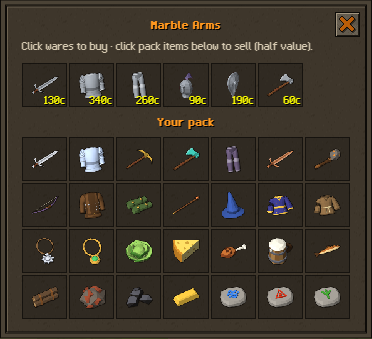
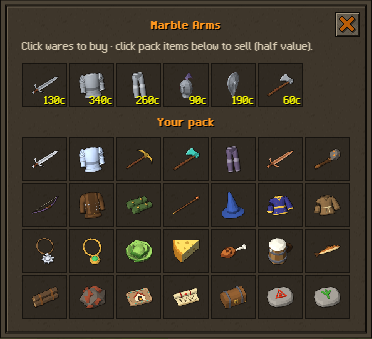
Load-time items get Blender renders: the Hearthmere teleport tablet, the cipher scroll and the Wayfarer's casket
home_tab was still drawn on a canvas by src/item_teleport_tabs.js (a purple slab and a house glyph pre-seeded into the
icon cache, so iconFor never reached a render), and src/clues.js's cipher_scroll and wayfarer_casket had no picture at
all (iconFor's default grey square). All three are added at load, so the item-table tests never saw them.

- tools/blender/build_world_item_icons_v1.py: a parametric teleport tablet (a thick fired-clay slab, bevelled, a raised
  rim with glowing rune notches around a sunken field) takes one emblem per destination from TAB_EMBLEM; Hearthmere's
  is a gabled cottage with a fire in its open door and a chimney. home_tab is the only tablet today; a new one adds its
  emblem there. Plus a parchment cipher scroll (ribbon, wax seal, rows of cipher on the unrolled end) and the Wayfarer's
  casket (oak chest, iron bands, brass lock plate). Same camera, light and finish as every item icon.
- src/game0_icons.js: the three ids join HOLM_ITEM_ICONS. src/item_teleport_tabs.js: the canvas drawing is removed
  (it would have won over the render); the tablet's use is unchanged (checked: breaking one consumes it and teleports).
- tools/test_item_icons.js: finds every script index.html loads that writes into ITEMS (the bronze dagger, the bread
  chain, the teleport tablet, the clue items), runs each in the sandbox with stand-ins for the globals it waits for, and
[…]

Changed region(s): [[0.5914, 0.826, 0.6801, 0.9145], [0.3253, 0.826, 0.414, 0.9145], [0.4435, 0.826, 0.5323, 0.9145]]

diff --git a/tools/test_item_icons.js b/tools/test_item_icons.js
@@ -3,12 +3,15 @@
    Crafted Realm -- every item has a real picture (owner rule: every icon is an image or a Blender render; no drawn
    placeholder shapes, no emoji, no glyphs).
 
-   Loads src/game0_icons.js and the item tables the way the browser does (src/game1_data.js ITEMS + buildTieredGear's
-   generated tier gear, src/smith_bronze_dagger.js) and checks:
+   Loads src/game0_icons.js and the item tables the way the browser does: src/game1_data.js ITEMS (+ buildTieredGear's
+   generated tier gear), then EVERY script index.html loads that adds items at load (found by scanning the script list
+   for writes into ITEMS: the bronze dagger, the bread chain, the teleport tablet, the clue items...), each run in the
+   sandbox with stand-ins for the game globals it waits for, so its registration really happens. Then it checks:
      1. every item id resolves through iconFor's picture tables (HOLM_ITEM_ICONS -> assets/icons/items/<id>.png, then the
-        painted gear-sprite rule -> assets/icons/gear/<id>.png), never to the canvas fallback;
+        painted gear-sprite rule -> assets/icons/gear/<id>.png), never to the canvas fallback, the load-time items too;
      2. every file those tables point at exists, and every Blender item render is a 96 x 96 PNG with transparency;
-     3. every id in HOLM_ITEM_ICONS is a real item (a typo would silently fall back to a drawn icon).
+     3. every id in HOLM_ITEM_ICONS is a real item (a typo would silently fall back to a drawn icon);
+     4. no script seeds the icon cache (ICONS[id] = a canvas drawing) for an item unless it yields to the item's render.
    Renders: tools/blender/build_holm_items_v1.py, build_holm_equipment_v1..v4.py, build_holm_fishing_items_v1.py,
    build_world_item_icons_v1.py. Run: node tools/test_item_icons.js    Exit 0 = pass.
    ========================================================================== */
@@ -19,22 +22,39 @@ const read=f=>fs.readFileSync(path.join(ROOT,f),'utf8');
 let pass=0,fail=0;
 function ok(c,m,d){if(c)pass++;else{fail++;console.log('  FAIL '+m+(d!==undefined?'\n       '+JSON.stringify(d).slice(0,800):''))}}
 
-const sb={Math,console:{log(){},warn(){},error(){}},JSON,Set,Map,Array,Object,WORLD:{},setInterval:()=>0,clearInterval:()=>{}};
-sb.globalThis=sb;vm.createContext(sb);
+/* a do-nothing stand-in for any game global a load-time module waits for (UI, Player, Admin, Events, Persist, ...):
+   every property is another stand-in, every call returns undefined, assignments land on the target */
+const stub=()=>{const t=function(){};return new Proxy(t,{get:(o,k)=>k in o?o[k]:(k===Symbol.toPrimitive||k==='then'?undefined:(o[k]=stub())),apply:()=>undefined})};
+const sb={Math,console:{log(){},warn(){},error(){},info(){}},JSON,Set,Map,Array,Object,Date,WORLD:{},
+  setInterval:f=>{try{f()}catch(e){}return 0},clearInterval:()=>{},setTimeout:()=>0};   // a boot interval gets one try, now
+sb.globalThis=sb;sb.window=sb;vm.createContext(sb);
 const ev=(f,cap)=>vm.runInContext(read(f)+'\n;'+(cap||''),sb,{filename:f});
 ev('src/game0_icons.js','globalThis.__I={HOLM_ITEM_ICONS,_gearSprite};');
 ev('src/game1_data.js','globalThis.__D={ITEMS};');
-ev('src/magic_spells.js');ev('src/combat_math.js');ev('src/game3_systems.js');   // what smith_bronze_dagger.js hooks into
-ev('src/smith_bronze_dagger.js');                                                   // adds the bronze dagger at load
+ev('src/magic_spells.js');ev('src/combat_math.js');ev('src/game3_systems.js');   // the tables the load-time modules hook into
 const {HOLM_ITEM_ICONS,_gearSprite}=sb.__I,ITEMS=sb.__D.ITEMS;
+const literal=new Set(Object.keys(ITEMS));
+
+/* every script index.html loads, in order; the ones that write into ITEMS add items at load */
+const scripts=[...read('index.html').matchAll(/<script[^>]*\ssrc="(src\/[^"?]+\.js)/g)].map(m=>m[1]);
+const WRITES=/ITEMS\s*\[[^\]]+\]\s*=(?!=)|ITEMS\.\w+\s*=(?!=)/;
+const loaders=scripts.filter(f=>f!=='src/game1_data.js'&&fs.existsSync(path.join(ROOT,f))&&WRITES.test(read(f)));
+['UI','Player','Admin','Events','Persist','Interact','Sfx','BreadRecipe','scene','THREE','handleClick','orderWalk','groundY','player']
+  .forEach(k=>{if(!(k in sb))sb[k]=stub()});
+const loadErr=[];
+loaders.forEach(f=>{try{ev(f)}catch(e){loadErr.push(f+': '+String(e&&e.message||e))}});
+const atLoad=Object.keys(ITEMS).filter(id=>!literal.has(id));
 const picture=id=>HOLM_ITEM_ICONS.has(id)?'assets/icons/items/'+id+'.png':_gearSprite(id)?'assets/icons/gear/'+id+'.png':null;
 /* width, height and colour type of a PNG from its IHDR */
 function pngInfo(p){const b=fs.readFileSync(p);if(b.readUInt32BE(0)!==0x89504e47)return null;return {w:b.readUInt32BE(16),h:b.readUInt32BE(20),ct:b[25]}}
 
 console.log('1. every item resolves to a picture');
+ok(!loadErr.length,'every load-time item module ran in the sandbox ('+loaders.join(', ')+')',loadErr);
+ok(['home_tab','bronze_dagger','dough','cipher_scroll'].every(id=>atLoad.indexOf(id)>=0),
+   'the items added at load are in the table ('+atLoad.length+': '+atLoad.join(', ')+')',atLoad);
 const ids=Object.keys(ITEMS);
+ok(ids.length>250,'the item table loaded ('+ids.length+' items: tier gear and load-time items included)');
 const none=ids.filter(id=>!picture(id));
-ok(ids.length>250&&!!ITEMS.bronze_dagger,'the item table loaded ('+ids.length+' items: tier gear and the bronze dagger included)');
 ok(!none.length,'every item has a Blender render or a painted sprite (no canvas-drawn fallback)',none);
 
 console.log('2. the pictures exist');
@@ -45,8 +65,15 @@ const badSize=[...HOLM_ITEM_ICONS].filter(id=>{const p=path.join(ROOT,'assets/ic
 ok(!badSize.length,'every Blender item render is a 96 x 96 RGBA PNG ('+HOLM_ITEM_ICONS.size+' renders)',badSize);
 
 console.log('3. the render table names real items');
-const stray=[...HOLM_ITEM_ICONS].filter(id=>!ITEMS[id]&&!['dough','bucket_flour'].includes(id));   // cooking_bread.js adds these two at load
+const stray=[...HOLM_ITEM_ICONS].filter(id=>!ITEMS[id]);
 ok(!stray.length,'every HOLM_ITEM_ICONS id is an item',stray);
+
+console.log('4. nothing seeds a drawn icon over a render');
+/* iconFor returns a cached ICONS[id] before it looks for the render, so a module that pre-draws an item's icon must step
+   aside when the render exists (smith_bronze_dagger.js checks HOLM_ITEM_ICONS first) */
+const seeders=scripts.filter(f=>f!=='src/game0_icons.js'&&fs.existsSync(path.join(ROOT,f))&&/ICONS\s*\[[^\]]+\]\s*=(?!=)/.test(read(f)));
+const unguarded=seeders.filter(f=>!/HOLM_ITEM_ICONS\.has\(/.test(read(f)));
+ok(!unguarded.length,'every script that caches an item icon yields to the Blender render ('+(seeders.join(', ')||'none')+')',unguarded);
 
 console.log('\n[ITEM ICONS] '+pass+' passed, '+fail+' failed');
 process.exit(fail?1:0);

diff --git a/src/item_teleport_tabs.js b/src/item_teleport_tabs.js
@@ -5,10 +5,12 @@
  * tutorial finish uses (Admin.tp('commons')). It wraps UI.useItem and calls through
  * to the original for every other item, so no existing use-path is touched.
  *
- * The 2D inventory icon is injected by pre-seeding ICONS['home_tab'] with a drawn
- * data-URL; game0_icons.js's iconFor() returns any pre-cached icon early, so we get
- * a proper sprite without editing that file. Mutates globals at load only; edits no
- * other source file. Self-boots via a setInterval guard. Reversible: drop the tag.
+ * The inventory icon is a Blender render (a clay tablet with Hearthmere's cottage-and-fire
+ * emblem: tools/blender/build_world_item_icons_v1.py -> assets/icons/items/home_tab.png),
+ * listed in game0_icons.js HOLM_ITEM_ICONS like every other item. (It used to pre-seed
+ * ICONS['home_tab'] with a canvas drawing; the owner rule is images or Blender renders
+ * only, so nothing is drawn here any more.) Mutates globals at load only. Self-boots
+ * via a setInterval guard. Reversible: drop the tag.
  */
 (function(){
   const ID   = 'home_tab';
@@ -20,29 +22,6 @@
   // Save restoration may run before the delayed interaction hook. Item data
   // must already exist when the first inventory is drawn.
   if(typeof ITEMS!=='undefined'&&!ITEMS[ID]) ITEMS[ID]=DEF;
-
-  /* Draw a small teleport rune/tablet into the icon cache (32×32), matching the
-     outlined sprite style of game0_icons.js. A purple slab, a teal home-glow and a
-     pale house glyph — reads clearly as a home-teleport tablet. */
-  function drawIcon(){
-    if(typeof ICONS==='undefined' || ICONS[ID]) return;
-    try{
-      const c=document.createElement('canvas'); c.width=32; c.height=32;
-      const x=c.getContext('2d');
-      x.lineWidth=1.5; x.lineJoin='round'; x.lineCap='round';
-      const O='#1a1208';
-      const fillS=(color,fn)=>{ x.fillStyle=color; x.strokeStyle=O; x.beginPath(); fn(); x.fill(); x.stroke(); };
-      const poly=(pts)=>{ x.moveTo(pts[0][0],pts[0][1]); for(let i=1;i<pts.length;i++) x.lineTo(pts[i][0],pts[i][1]); x.closePath(); };
-      const ell=(cx,cy,rx,ry)=>x.ellipse(cx,cy,rx,ry,0,0,7);
-      // slab
-      fillS('#7a5e94',()=>poly([[9,5],[23,5],[25,9],[25,23],[23,27],[9,27],[7,23],[7,9]]));
-      // teal teleport glow
-      x.fillStyle='#3ec6b4'; x.globalAlpha=0.4; x.beginPath(); ell(16,16,7,9); x.fill(); x.globalAlpha=1;
-      // pale "home" glyph
-      fillS('#eafffb',()=>poly([[16,10],[21,15],[19,15],[19,21],[13,21],[13,15],[11,15]]));
-      ICONS[ID]=c.toDataURL();
-    } catch(e){ console.error('[item_teleport_tabs] icon', e); }
-  }
 
   /* Consume one tab and teleport home. Reuses the tutorial-finish teleport verbatim. */
   function useTab(i){
@@ -62,10 +41,7 @@
     /* 1) register the item only if absent — never clobber an existing id */
     if(!ITEMS[ID]) ITEMS[ID]=DEF;
 
-    /* 2) seed the inventory icon */
-    drawIcon();
-
-    /* 3) wrap UI.useItem: intercept ONLY home_tab; everything else is untouched */
+    /* 2) wrap UI.useItem: intercept ONLY home_tab; everything else is untouched */
     const _useItem = UI.useItem.bind(UI);
     UI.useItem = function(i){
       const s = Player.inv[i];

diff --git a/tools/qa_world_item_icons.js b/tools/qa_world_item_icons.js
@@ -1,4 +1,6 @@
 /* qa_world_item_icons.js -- the world item icons (tools/blender/build_world_item_icons_v1.py) in the running game.
+ * First, every item the running game knows (the load-time ones too: the teleport tablet, the clue items) resolves to a
+ * picture file through iconFor, never a canvas drawing.
  * A fresh adventurer on the island is handed a pack of the new items; then, with real clicks:
  *   - the inventory shows every one as its Blender render (assets/icons/items/<id>.png, loaded, no canvas data-URL);
  *   - a few are worn and the equipment tab shows them the same way;
@@ -16,8 +18,8 @@ let pass=0,fail=0;
 function ok(c,m,d){if(c){pass++;console.log('  ok  '+m)}else{fail++;console.log('  FAIL '+m+(d!==undefined?' '+JSON.stringify(d).slice(0,400):''))}}
 const PACK=['steel_sword','whitsteel_platebody','aurel_pickaxe','veyrite_hatchet','undercrag_platelegs','copper_sword','crag_maul',
   'duskwood_bow','riveted_body','fenhide_vambraces','ember_staff','wizard_hat','starweave_robe_top','monk_robe_top','holy_symbol',
-  'amulet_of_warding','cabbage','cheese','cooked_meat','hollow_ale','trout','oak_logs','iron_ore','coal','gold_bar',
-  'water_rune','fire_rune','nature_rune'];
+  'amulet_of_warding','cabbage','cheese','cooked_meat','hollow_ale','trout','oak_logs','iron_ore','home_tab','cipher_scroll',
+  'wayfarer_casket','fire_rune','nature_rune'];
 const WEAR={weapon:'storm_staff',head:'starweave_hat',body:'glimmer_robe_top',legs:'starweave_robe_skirt',cape:'guild_sigil',amulet:'amulet_of_might',hands:'fenhide_vambraces'};
 async function clickXY(page,xy){if(!xy)return;await page.mouse.move(xy[0],xy[1]);await sleep(60);await page.mouse.down();await page.mouse.up();await sleep(300)}
 const centre=(page,sel,i)=>page.evaluate((sel,i)=>{const e=document.querySelectorAll(sel)[i||0];if(!e)return null;const r=e.getBoundingClientRect();return r.width?[r.x+r.width/2,r.y+r.height/2]:null},sel,i||0);
@@ -38,6 +40,12 @@ const isItemPng=(s,id)=>s==='assets/icons/items/'+id+'.png';
     page.on('pageerror',e=>errors.push(String(e).slice(0,300)));
     await page.goto(BASE+'/',{waitUntil:'domcontentloaded',timeout:90000});
     await enter(page);
+    // every item the running game knows (its load-time modules have booted by now: the teleport tablet, the bread chain,
+    // the clue items...) resolves to a picture file, never a canvas drawing
+    await page.waitForFunction(()=>typeof ITEMS!=='undefined'&&!!ITEMS.home_tab&&!!ITEMS.dough&&!!ITEMS.cipher_scroll,{timeout:15000}).catch(()=>{});
+    const drawn=await page.evaluate(()=>Object.keys(ITEMS).filter(id=>!/^assets\/icons\/(items|gear)\//.test(String(iconFor(id)))));
+    const n=await page.evaluate(()=>Object.keys(ITEMS).length);
+    ok(!drawn.length,'all '+n+' items the running game knows (load-time items included) show a picture file, none drawn',drawn);
     // the pack: clear it, then hand over the new items (and wear a set)
     await page.evaluate((pack,wear)=>{Player.inv.fill(null);pack.forEach(id=>Player.addItem(id,1));
       Object.keys(wear).forEach(s=>{Player.equip[s]=wear[s]});try{refreshPlayerGear()}catch(e){}UI.refreshInv();UI.refreshEquip()},PACK,WEAR);

diff --git a/index.html b/index.html
@@ -796,7 +796,7 @@
 <script src="src/holm_island_live.js?v=3"></script>
 <script src="src/world_mode.js?v=3"></script>
 <script src="src/item_attrs.js?v=1"></script>
-<script src="src/game0_icons.js?v=hd5a7f43e"></script>
+<script src="src/game0_icons.js?v=hf504a7e5"></script>
 <script src="src/worldgrid.js?v=4"></script>
   <script src="src/holm_landscape_data.js?v=25"></script>
   <script src="src/holm_lastlight_data.js?v=15"></script>
@@ -967,7 +967,7 @@
 <script src="src/ui_guide_arrow.js?v=7"></script>
 <script src="src/bread_recipe.js?v=1"></script>
 <script src="src/cooking_bread.js?v=3"></script>
-<script src="src/item_teleport_tabs.js?v=h3a08dfca"></script>
+<script src="src/item_teleport_tabs.js?v=h80538f98"></script>
 <script src="src/map_search.js?v=1"></script>
   <script src="src/scheduler.js?v=1"></script>
   <script src="src/dispatch.js?v=6om1"></script>

diff --git a/src/game0_icons.js b/src/game0_icons.js
@@ -51,7 +51,9 @@ const HOLM_ITEM_ICONS = new Set(['tinderbox','hammer','bucket','bucket_water','b
   'water_rune','earth_rune','fire_rune','body_rune','chaos_rune','nature_rune','spark_rune',
   // ...and the last 21 items that were still drawn on a canvas (shops, drops, the pack; same script)
   'beast_hide','feathers','knife','ashes','chisel','rope','shears','spade','jug','jug_water','soft_clay','leather','wool','flax',
-  'grain','potato','onion','egg','raw_beef','big_bones','fen_charm']);
+  'grain','potato','onion','egg','raw_beef','big_bones','fen_charm',
+  // items other modules register at load: the teleport tablet (item_teleport_tabs.js), the clue items (clues.js)
+  'home_tab','cipher_scroll','wayfarer_casket']);
 function iconFor(id){
   if(ICONS[id]) return ICONS[id];
   if(HOLM_ITEM_ICONS.has(id)) return (ICONS[id]='assets/icons/items/'+id+'.png');

diff --git a/tools/blender/build_world_item_icons_v1.py b/tools/blender/build_world_item_icons_v1.py
@@ -23,6 +23,7 @@ our own design (docs/rebuild/NAMING_BIBLE.md names), none copies any game's rune
 Usage: "C:\\Program Files\\Blender Foundation\\Blender 4.5\\blender.exe" -b --python tools/blender/build_world_item_icons_v1.py
        [-- --only id1,id2]
 Outputs: assets/icons/items/<id>.png (96x96 RGBA) + their entries in assets/icons/items/manifest.json;
+         (items other modules register at load are covered too: home_tab, cipher_scroll, wayfarer_casket);
          scratchpad/item_icons/future_runes/<rune>.png: the five planned runes (Writ, Grave, Star, Vein, Spirit) have no
          item yet, their sigils are rendered as proof only (register them when the items exist).
 Deterministic: every random draw comes from a seeded random.Random. All geometry authored here or read from our own
@@ -81,6 +82,11 @@ def game_items():
             if iid not in aliases and iid not in items: items[iid] = dict(name='%s %s' % (tl, nm), capeColor=None)
     return items
 GAME = game_items()
+# items a module registers at load (not in ITEMS' literal): id -> the module; the module must name the id
+LOAD_ITEMS = {'home_tab': 'src/item_teleport_tabs.js', 'cipher_scroll': 'src/clues.js', 'wayfarer_casket': 'src/clues.js'}
+for _iid, _f in LOAD_ITEMS.items():
+    assert _iid in read(_f), (_iid, _f)
+    GAME.setdefault(_iid, dict(name=_iid, capeColor=None))
 
 # ================================================================ PROP materials (authored sRGB, drawn as-is)
 PAL = {
@@ -127,7 +133,11 @@ PAL.update({'hide': (.58, .44, .30), 'hide-dk': (.40, .29, .18), 'hide-lt': (.70
             'potato': (.72, .56, .34), 'potato-lt': (.82, .67, .44), 'potato-eye': (.45, .33, .20), 'onion': (.82, .62, .34),
             'onion-lt': (.90, .74, .46), 'onion-dk': (.55, .38, .20), 'egg': (.92, .86, .74), 'egg-lt': (.97, .94, .86),
             'beef': (.72, .18, .16), 'beef-dk': (.52, .12, .10), 'fat': (.94, .88, .78), 'fat-lt': (.92, .72, .66),
-            'charm': (.46, .22, .66), 'charm-lt': (.70, .48, .90), 'bone-old': (.93, .88, .72)})
+            'charm': (.46, .22, .66), 'charm-lt': (.70, .48, .90), 'bone-old': (.93, .88, .72),
+            'tablet': (.78, .62, .45), 'tablet-dk': (.56, .42, .29), 'tablet-field': (.70, .54, .38), 'rune-glow': (.26, .80, .72),
+            'hearth-wall': (.95, .89, .74), 'hearth-wall-dk': (.66, .58, .46), 'roof-red': (.70, .24, .14), 'roof-red-dk': (.46, .15, .09),
+            'parch': (.93, .86, .66), 'parch-dk': (.76, .65, .44), 'ink': (.24, .17, .10), 'ribbon': (.66, .12, .10),
+            'wax': (.70, .10, .08), 'wax-lt': (.86, .24, .18), 'oak-plank': (.55, .36, .19)})
 PMAT = {}
 def pmat(name):
     if name in PMAT: return PMAT[name]
@@ -915,6 +925,79 @@ def b_fen_charm():
     m.hull(ell((0, .005, .02), (.012, .012, .01), nu=6, nv=3), 'brass')                                 # the bail
     return m
 
+# -- items registered at load by their own modules (src/item_teleport_tabs.js, src/clues.js)
+def rrect_ring(w, d, z, r, seg=3):
+    """a rounded rectangle ring (x half-width w, y half-depth d), counter-clockwise from above"""
+    pts = []
+    for cx, cy, a0 in ((w - r, d - r, 0.0), (-w + r, d - r, math.pi / 2), (-w + r, -d + r, math.pi), (w - r, -d + r, 1.5 * math.pi)):
+        for k in range(seg + 1):
+            a = a0 + math.pi / 2 * k / seg; pts.append((cx + r * math.cos(a), cy + r * math.sin(a), z))
+    return pts
+TAB_W, TAB_D, TAB_H = .15, .115, .032
+def tablet_slab(m, clay='tablet', rim_dk='tablet-dk', field='tablet-field'):
+    """a teleport tablet: a thick fired-clay slab, bevelled, a raised rim around a sunken field (the field is at TAB_H - .008)"""
+    W, D, H = TAB_W, TAB_D, TAB_H
+    rings = [rrect_ring(W - .006, D - .006, 0, .03), rrect_ring(W, D, .008, .034), rrect_ring(W, D, H - .007, .034),
+             rrect_ring(W - .007, D - .007, H, .028), rrect_ring(W - .024, D - .024, H, .016), rrect_ring(W - .027, D - .027, H - .008, .014)]
+    m.loft(rings, lambda j, i: clay if j in (1, 3) else rim_dk, cap0=rim_dk, cap1=field)
+def tablet_runes(m, mat='rune-glow'):
+    """rune notches cut into the rim: short glowing ticks, three a long side, two a short side"""
+    W, D, H = TAB_W, TAB_D, TAB_H; y_rim, x_rim = D - .0155, W - .0155
+    for x in (-.075, 0.0, .075):
+        for sy in (-1, 1): m.slab([(x - .012, sy * y_rim - .0035), (x + .012, sy * y_rim - .0035), (x + .012, sy * y_rim + .0035), (x - .012, sy * y_rim + .0035)], H, H + .003, mat, mat)
+    for y in (-.035, .035):
+        for sx in (-1, 1): m.slab([(sx * x_rim - .0035, y - .012), (sx * x_rim + .0035, y - .012), (sx * x_rim + .0035, y + .012), (sx * x_rim - .0035, y + .012)], H, H + .003, mat, mat)
+def emblem_hearth(m, z):
+    """Hearthmere: a gabled cottage with a fire glowing in its open door and smoke-less chimney"""
+    m.slab([(-.05, -.052), (.05, -.052), (.05, .006), (0, .05), (-.05, .006)], z, z + .01, 'hearth-wall', 'hearth-wall-dk')      # the cottage
+    m.slab([(-.062, .0), (0, .062), (.062, .0), (.05, -.006), (0, .046), (-.05, -.006)], z + .01, z + .016, 'roof-red', 'roof-red-dk')  # roof eaves
+    m.slab([(.024, .03), (.04, .03), (.04, .058), (.024, .058)], z, z + .016, 'hearth-wall-dk', 'hearth-wall-dk')             # chimney
+    door = [(-.02, -.052), (.02, -.052), (.02, -.014)] + [(.02 * math.cos(math.pi * k / 6), -.014 + .02 * math.sin(math.pi * k / 6)) for k in range(1, 6)] + [(-.02, -.014)]
+    m.slab(door, z + .01, z + .012, 'char', 'char')                                                                         # the open door
+    m.slab([(-.013, -.05), (.013, -.05), (.01, -.03), (0, -.004), (-.01, -.03)], z + .012, z + .015, 'crag-vein', 'crag-vein')  # the fire
+    m.slab([(-.006, -.048), (.006, -.048), (.004, -.034), (0, -.02), (-.004, -.034)], z + .015, z + .017, 'gold', 'gold')
+TAB_EMBLEM = {'home_tab': emblem_hearth}   # one design per destination: a new tablet adds its emblem here
+def b_tablet(iid):
+    m = M(); tablet_slab(m); tablet_runes(m); k = len(m.v); TAB_EMBLEM[iid](m, TAB_H - .008)
+    for i in range(k, len(m.v)): m.v[i] = Vector((m.v[i].x * 1.3, m.v[i].y * 1.3 - .006, m.v[i].z))   # the emblem fills the field
+    return m
+def b_cipher_scroll():
+    """a cipher scroll: a parchment roll bound with a red ribbon and a wax seal, its end unrolled to show rows of cipher"""
+    m = M(); R = .034; y0 = .045
+    m.ptube([(-.17, y0, R), (.17, y0, R)], R, 10, 'parch', cap0='parch-dk', inset0=('parch', .55, -.004), cap1='parch-dk', inset1=('parch', .55, -.004))
+    sheet_ = [(-.155, y0 - R * .6, .006), (.155, y0 - R * .6, .006), (.15, -.11, .003), (-.15, -.11, .003)]
+    m.poly(sheet_, 'parch')                                                                                     # the unrolled tongue
+    m.ptube([(-.15, -.112, .012), (.15, -.112, .012)], .012, 6, 'parch-dk', cap0='parch-dk', cap1='parch-dk')   # its curled edge
+    rng = random.Random(77)
+    for row in range(4):                                                                                        # rows of cipher marks
+        y = -.005 - row * .024; x = -.12
+        while x < .11:
+            w = rng.uniform(.008, .022)
+            m.poly([(x, y - .004, .0065), (x + w, y - .004, .0065), (x + w, y + .004, .0065), (x, y + .004, .0065)], 'ink'); x += w + rng.uniform(.006, .014)
+    for bx in (-.07, .07):                                                                                      # the ribbon
+        m.ptube([(bx, y0 + (R + .003) * math.cos(tau * i / 12), R + (R + .003) * math.sin(tau * i / 12)) for i in range(12)], .007, 4, 'ribbon', closed=True)
+    m.hull(ell((.0, y0 - R * .75, R * 1.55), (.024, .02, .012), nu=8, nv=3), 'wax')                            # the seal
+    m.hull(ell((.0, y0 - R * .78, R * 1.55 + .01), (.012, .01, .005), nu=6, nv=3), 'wax-lt')
+    return m
+def b_casket():
+    """the Wayfarer's casket: a small oak chest, barrel lid, iron bands and corner studs, a brass lock plate"""
+    m = M(); W, D, H = .14, .09, .09
+    m.hull(cbox((0, 0, H / 2), (W, D, H / 2), .006), lambda n, c: 'oak-plank' if n.z < .9 else 'wood-dark')
+    lid = []
+    for k in range(7):
+        a = math.pi * k / 6
+        for sx in (-1, 1): lid.append(Vector((sx * W * 1.01, -D * 1.01 * math.cos(a), H + D * .75 * math.sin(a))))
+    m.hull(lid, 'oak-plank')
+    for bx in (-.085, .085):                                                                                    # iron bands over body and lid
+        m.hull([Vector((bx + dx, y, z)) for dx in (-.012, .012) for y in (-D - .006, D + .006) for z in (-.001, H)], 'iron')
+        m.ptube([(bx, -(D + .006) * math.cos(math.pi * k / 8), H + (D * .75 + .006) * math.sin(math.pi * k / 8)) for k in range(9)],
+                .012, 4, 'iron', up=(1, 0, 0), phase=math.pi / 4)
+    m.hull(cbox((0, -D - .006, H - .012), (.024, .006, .028), .004), 'brass')                                   # lock plate
+    m.hull(ell((0, -D - .013, H - .016), (.006, .004, .009), nu=5, nv=3), 'char')                              # keyhole
+    for sx in (-1, 1):
+        for z in (.012, H - .01): m.hull(ell((sx * (W - .012), -D - .004, z), (.008, .005, .008), nu=5, nv=3), 'brass')
+    return m
+
 # ================================================================ the equipment scene (read-only)
 EQ = {}
 def load_equipment():
@@ -1183,6 +1266,10 @@ for iid, fn, desc, yaw in (('beast_hide', b_hide, 'a stretched beast hide, fur u
                            ('big_bones', b_big_bones, 'a big chunky bone', 35),
                            ('fen_charm', b_fen_charm, "the Fenlord's charm: a violet crystal bound in brass on a cord", 10)):
     PJ(iid, fn, desc, yaw=yaw)
+# items registered at load: the Hearthmere teleport tablet, the cipher scroll and the Wayfarer's casket
+PJ('home_tab', lambda: b_tablet('home_tab'), 'Hearthmere teleport: a clay tablet, glowing rune notches, a cottage with a fire in its door', yaw=18)
+PJ('cipher_scroll', b_cipher_scroll, 'cipher scroll: parchment roll, red ribbon and wax seal, rows of cipher on the unrolled end', yaw=20)
+PJ('wayfarer_casket', b_casket, "Wayfarer's casket: small oak chest, iron bands, brass lock plate", yaw=25)
 
 # ================================================================ run
 unknown = [j['id'] for j in JOBS if j.get('out') is None and j['id'] not in GAME]

diff --git a/tools/make_world_item_icons_sheet.py b/tools/make_world_item_icons_sheet.py
@@ -36,6 +36,7 @@ ROWS = [
     ('Was canvas-drawn', ['bones', 'bread_dough'], ['beast_hide', 'feathers', 'knife', 'ashes', 'chisel', 'rope', 'shears', 'spade', 'jug',
                                                    'jug_water', 'soft_clay', 'leather', 'wool', 'flax', 'grain', 'potato', 'onion', 'egg',
                                                    'raw_beef', 'big_bones', 'fen_charm']),
+    ('Added at load', [], ['home_tab', 'cipher_scroll', 'wayfarer_casket']),
     ('Runes', ['air_rune', 'mind_rune'], ['water_rune', 'earth_rune', 'fire_rune', 'body_rune', 'chaos_rune', 'nature_rune', 'spark_rune',
                                          'future:writ', 'future:grave', 'future:star', 'future:vein', 'future:spirit']),
 ]
